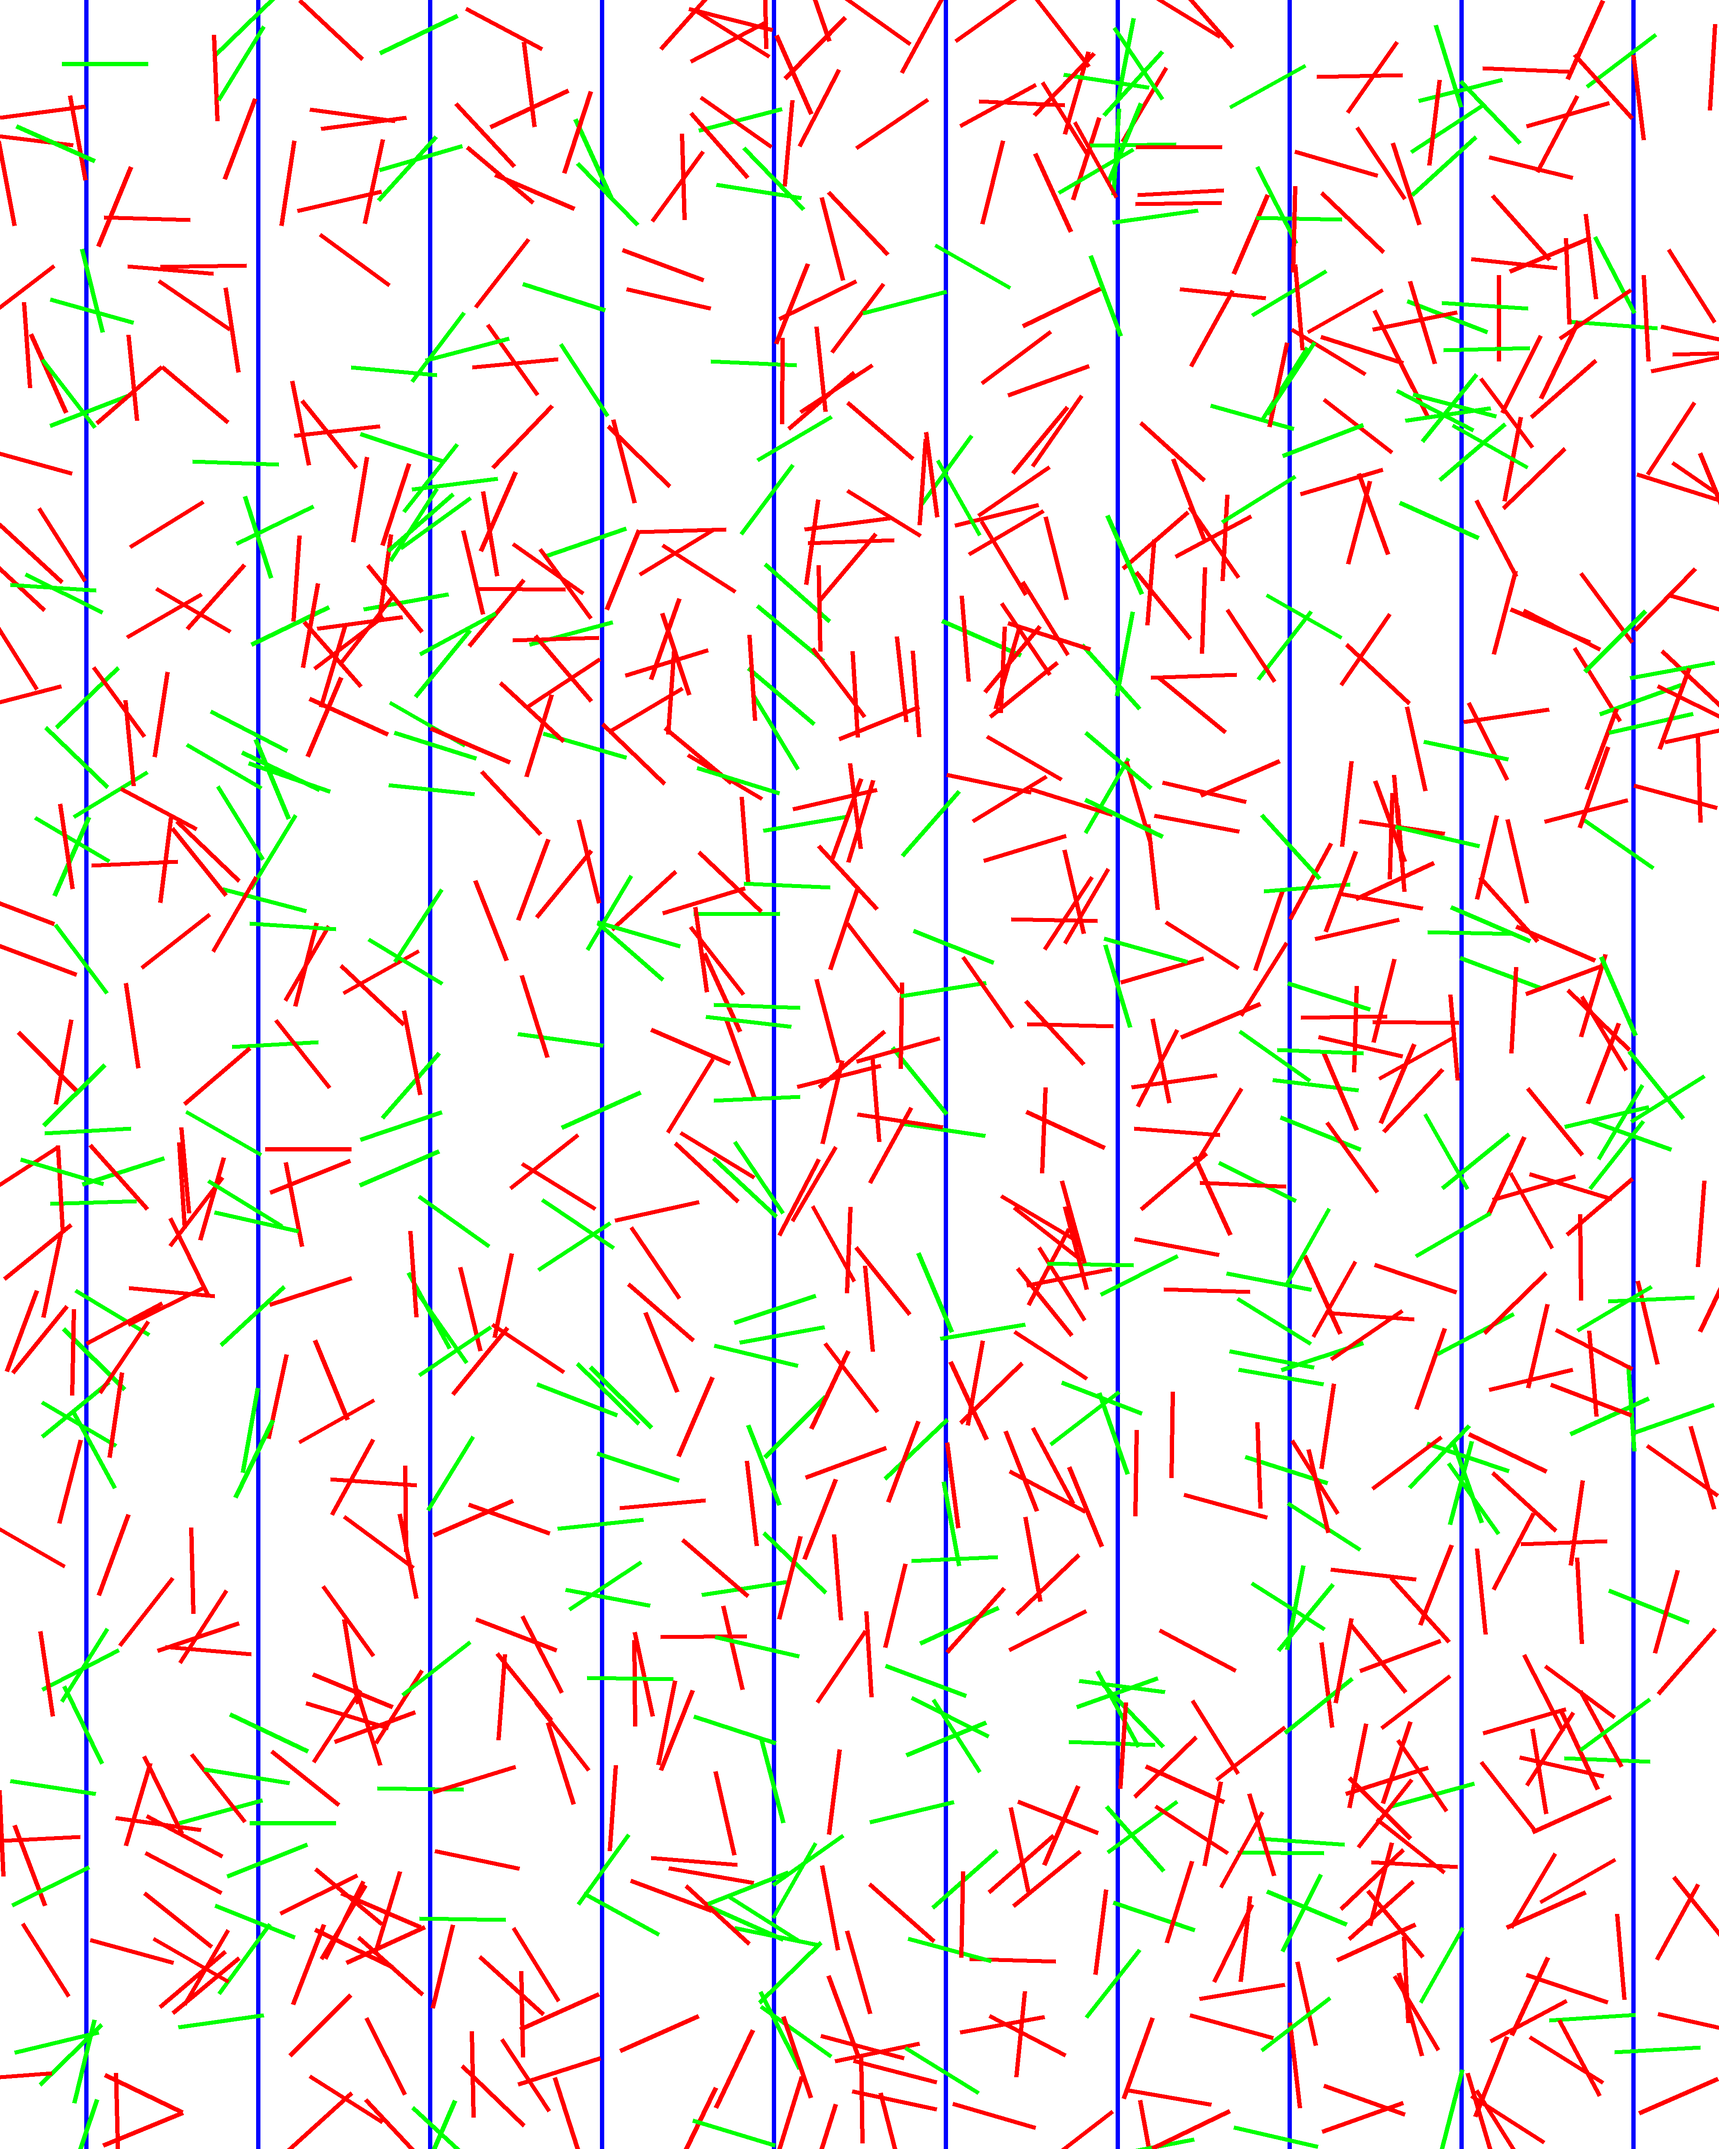
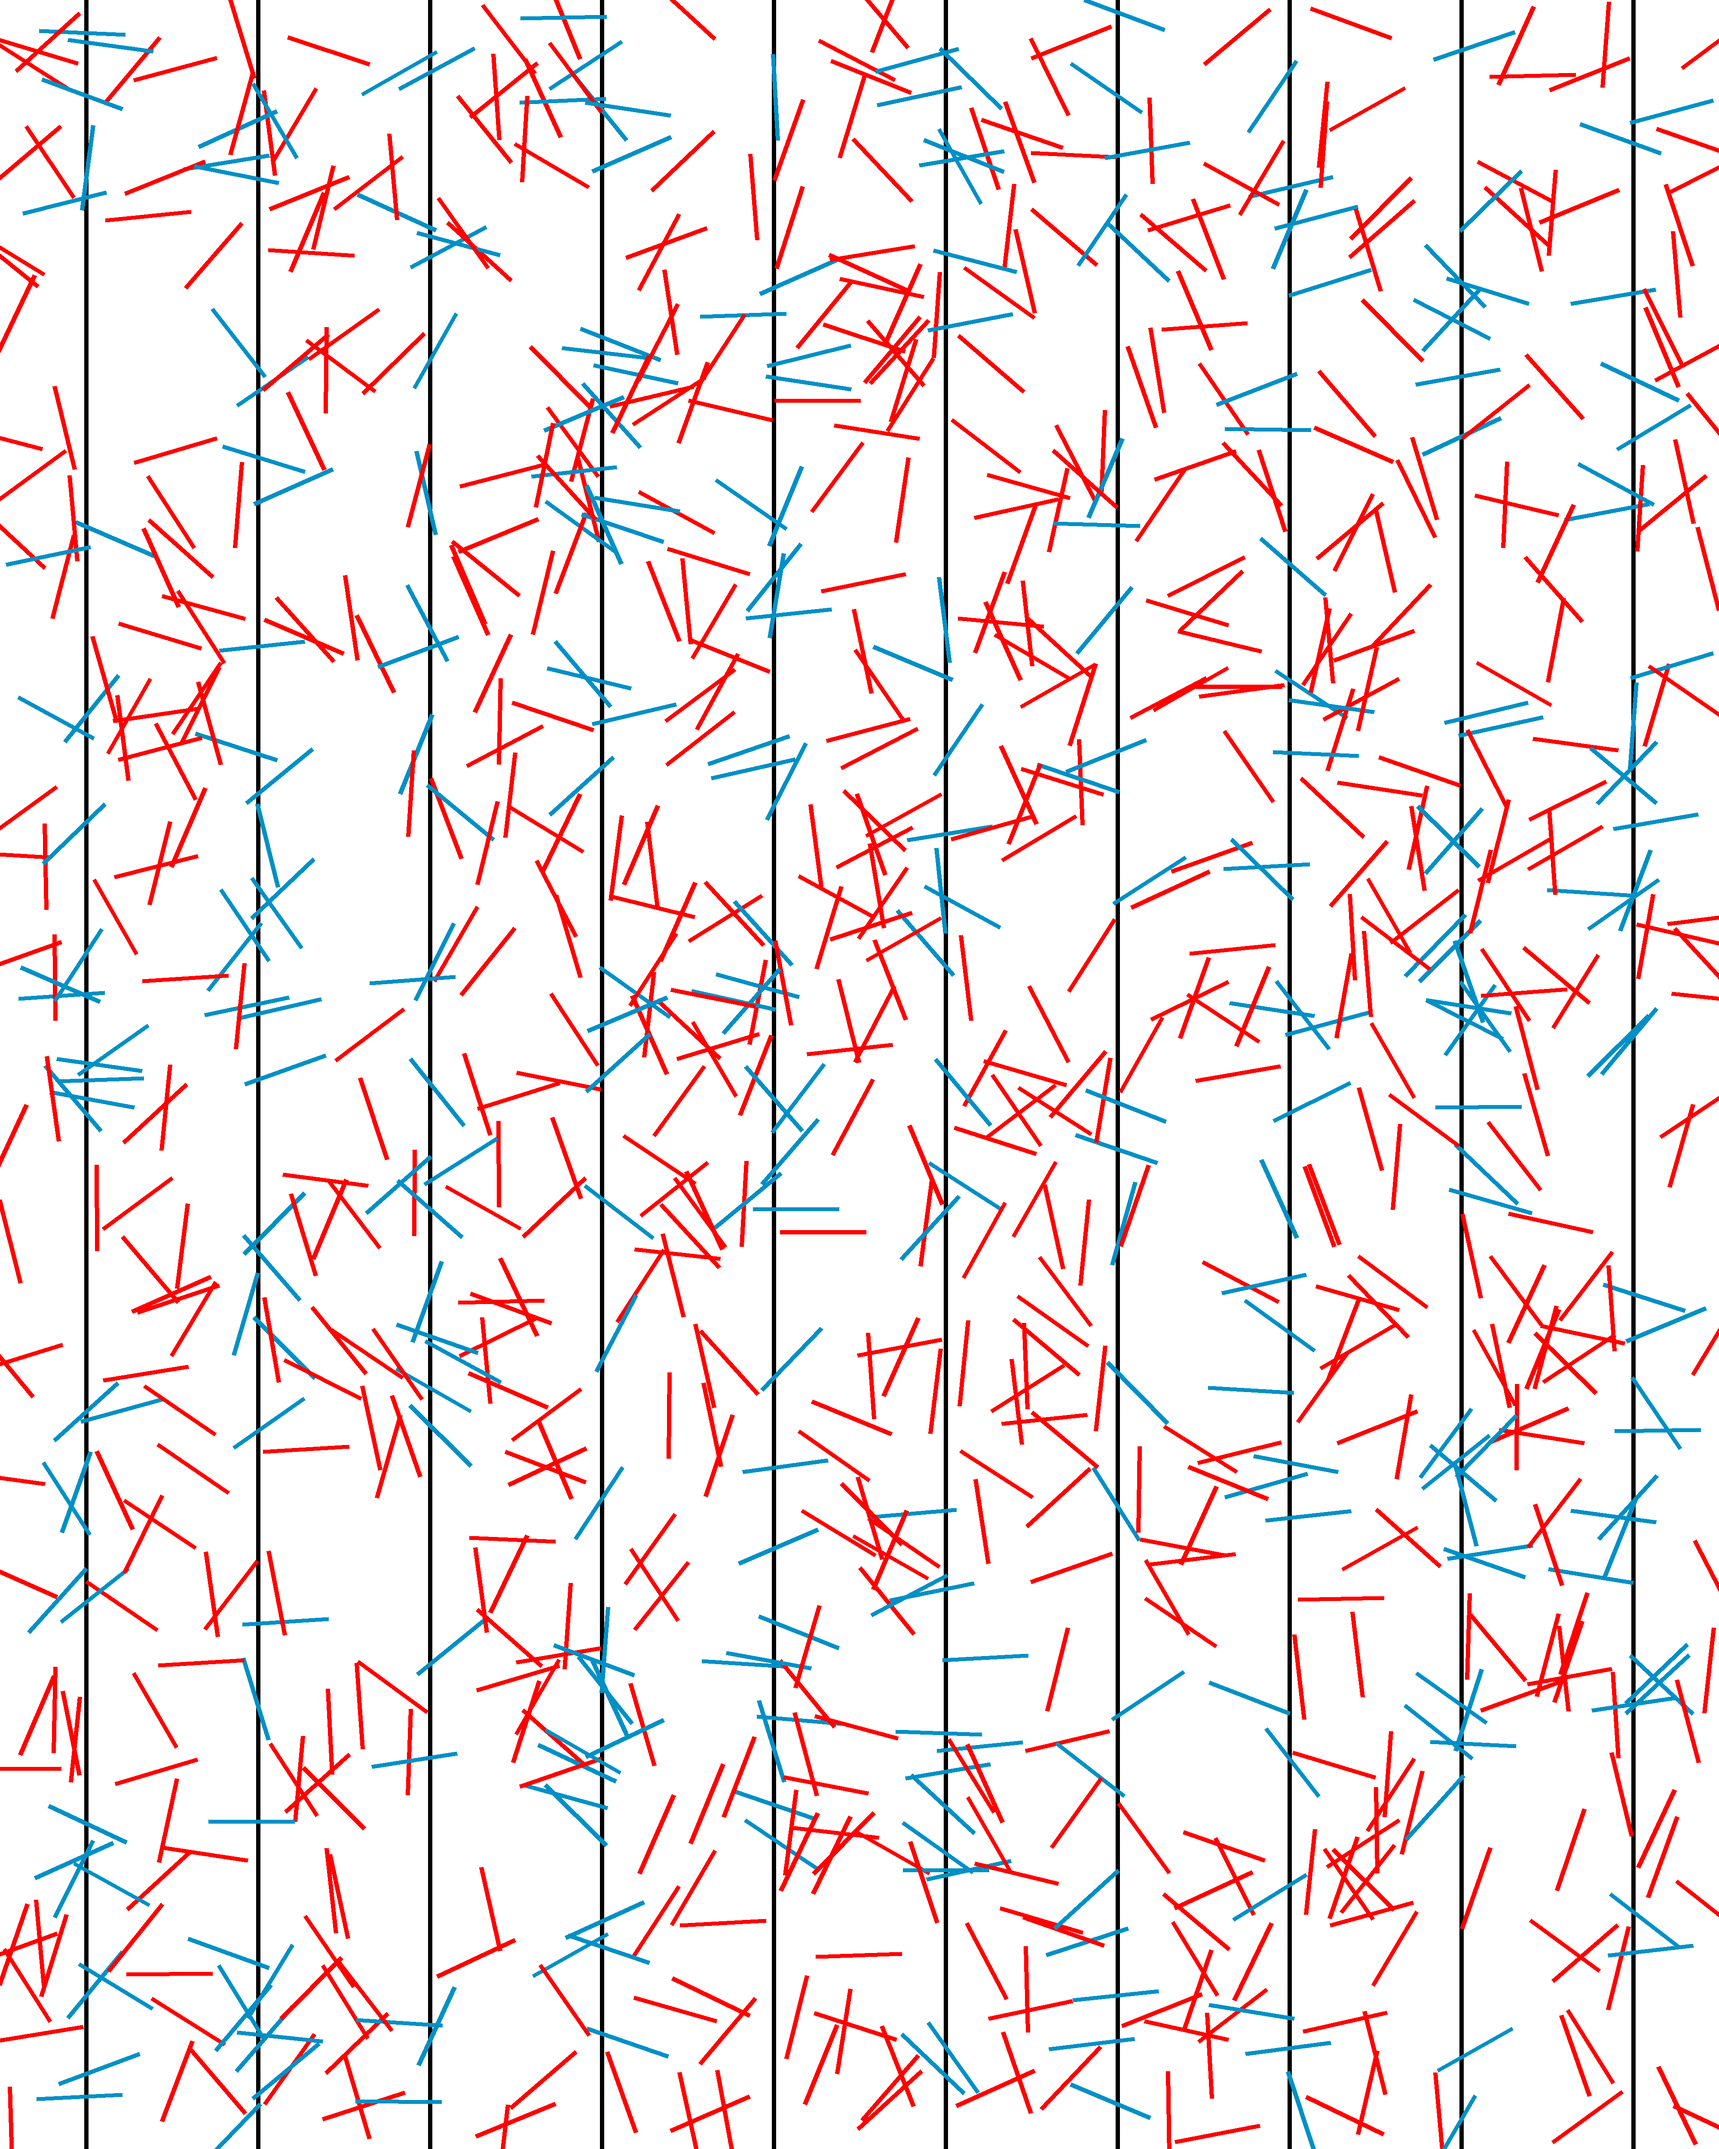
Changed needle colors

Changed region(s): [[0.0, 0.0, 1.0, 1.0]]

diff --git a/sim/simulation_graphic.py b/sim/simulation_graphic.py
@@ -6,13 +6,13 @@ def create_image(path, result):
     scale = 100
     img = Image.new('RGB', (result.needle_length * 2 * result.line_count * scale, result.height * scale), color='white')
     d = ImageDraw.Draw(img)
-    line_color = (0, 0, 255)
+    line_color = (0, 0, 0)
     for x in range(result.line_count):
         d.line([((result.line_distance * x + result.line_distance / 2) * scale, 0),
                 ((result.line_distance * x + result.line_distance / 2) * scale, result.height * scale)],
                fill=line_color, width=10)
     needle_color_default = (255, 0, 0)
-    needle_color_hit = (0, 255, 0)
+    needle_color_hit = "#0090c6ff"
     for needle in result.needles:
         x = needle[0]
         y = needle[1]
